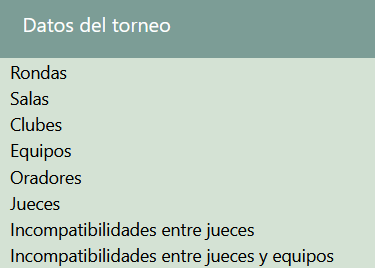
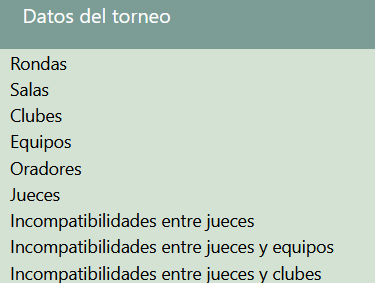
Remove clubes anteriores y add incompatibilidades entre

Changed region(s): [[0.0, 0.1493, 1.0, 1.0], [0.0587, 0.0299, 0.4693, 0.1194]]

diff --git a/docs/source/datos.md b/docs/source/datos.md
@@ -18,6 +18,8 @@ Estas son las entidades que han de insertarse para poder comenzar a tabular cual
 
 * Incompatibilidades entre jueces y equipos (en caso de haber)
 
+* Incompatibilidades entre jueces y clubes (en caso de haber)
+
 <div class="tip">
 💡
 Puedes acceder a cada uno de ellas desde la barra lateral, expandiendo <span class="bold">datos del torneo.</span>
@@ -614,9 +616,10 @@ Del mismo modo que con los equipos, es posible cambiar la disponibilidad de cada
 
 Esta entidad representa a todos los jueces que juzgarán al menos un debate a lo largo de todo el torneo. A continuación se presentarán los 3 principales datos con los que debe contar cada juez (además de su nombre, claro está).
 
-###  Clubes
+###  Club
 
-Es posible indicar el club al que juez pertenece en la actualidad **(club actual)**, además de los clubes en los cuales estuvo en el pasado **(clubes antiguos)** (en caso de haber, claro está). Todo ello para poder controlar las incompatibilidades de tipo club.
+El club al que pertenece actualmente el juez. En caso de haber pertenecido a otros en el pasado, es recomendable incluirlos en sus incompatibilidades con otros clubes.
+
 
 ### Disponibilidades
 
@@ -673,11 +676,13 @@ Esta le permitirá modificar sus disponibilidades, rellenar las actas de los deb
 
 ## Incompatibilidades
 
-Además de las incompatibilidades entre clubes (ya sea el actual o los antiguos), es posible especificar dos tipos de incompatibilidades extra:
+Tabademic permite incluir los siguientes tipos de incompatibilidades:
 
 * Entre jueces
 
 * Entre jueces y equipos
+
+* Entre jueces y clubes
 
 ### Entre jueces
 
@@ -719,6 +724,22 @@ Similar a la entidad anterior, solo que esta vez el segundo desplegable se refie
 
 
 </div>
+
+<br>
+
+### Entre jueces y clubes
+
+Además del propio club, es posible indicar para cada juez con qué otros clubes tiene incompatibilidad, de tal forma que no pueda juzgar ningún equipo que pertenezca a dichas instituciones.
+
+La forma de insertarlos es similar a las dos anteriores, teniendo un desplegable con el juez en cuestión y otro con el club.
+
+<div class="warning">
+
+⚠ Solamente se mostrarán los clubes de los equipos insertados (de tal forma que no se pueda elegir uno que no tenga relación con ningún equipo del torneo).
+
+</div>
+
+<br>
 
 
 ## Importar datos

diff --git a/docs/source/generacion_enfrentamientos.md b/docs/source/generacion_enfrentamientos.md
@@ -148,6 +148,8 @@ En caso de haber una, la celda en cuestión cambiará al color representante de 
 
 <br>
 
+<br>
+
 #### Lista de incompatibilidades
 
 La siguiente tabla detalla todas las incompatibilidades que puede haber a la hora de generar enfrentamientos, con su color correspondiente y una pequeña descripción.
@@ -166,7 +168,8 @@ La siguiente tabla detalla todas las incompatibilidades que puede haber a la hor
   
   <tr class="incompatibilidad-club">
     <td>Incompatibilidad de club</td>
-    <td>Al menos uno de los jueces pertenece al mismo club (actual o antiguo) de al menos uno de los dos equipos</td>
+    <td>Al menos uno de los equipos pertenece al mismo club de al menos uno de los jueces y/o existe al menos una incompatibilidad
+    de tipo juez-club</td>
   </tr>
 
 <tr class="juzgado-anteriormente">
